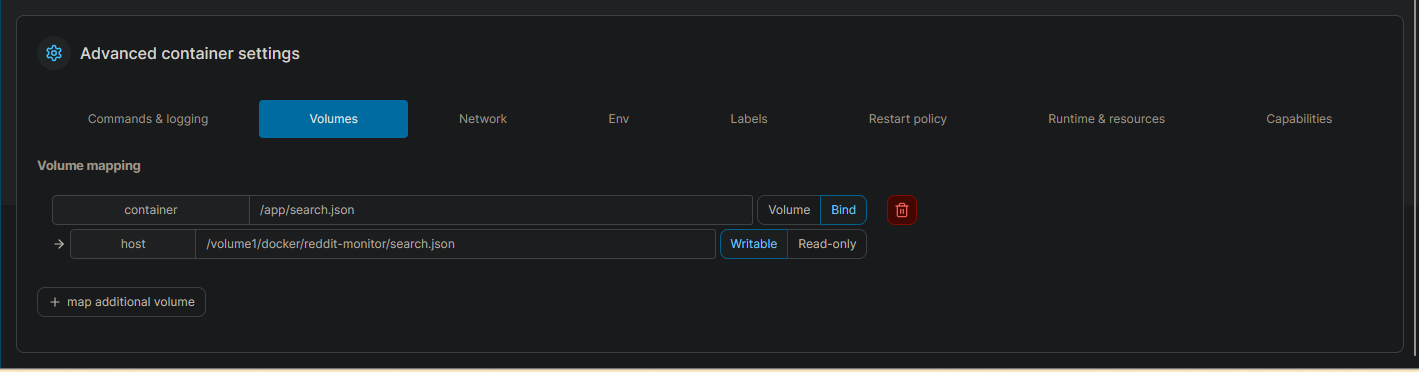
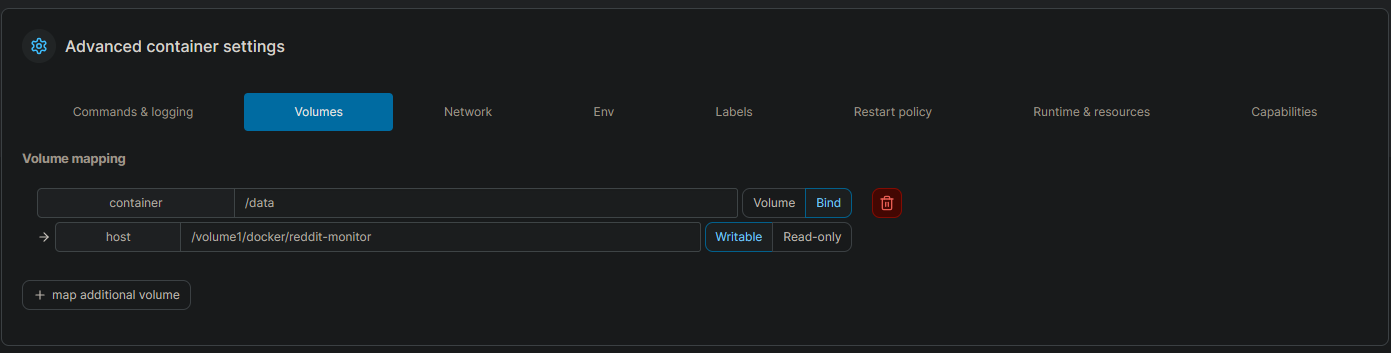
Updated container settings

diff --git a/readme.md b/readme.md
@@ -66,7 +66,7 @@ python bot.py
 The script will start monitoring the specified subreddits and send push notifications for matching posts.
 
 ## Running on Synology
-If you want to run this on Synology here:
+If you want to run this on Synology, this the volume mapping
 ![Portainer settings for Synology](ContainerSettings.png "Portainer example")
 
 
